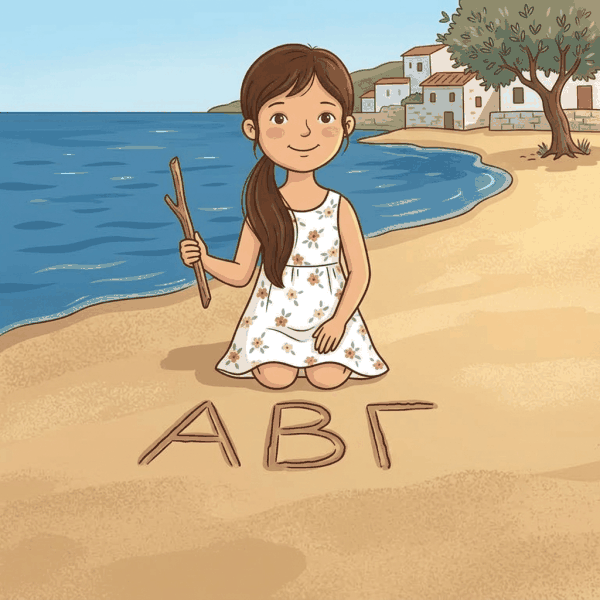
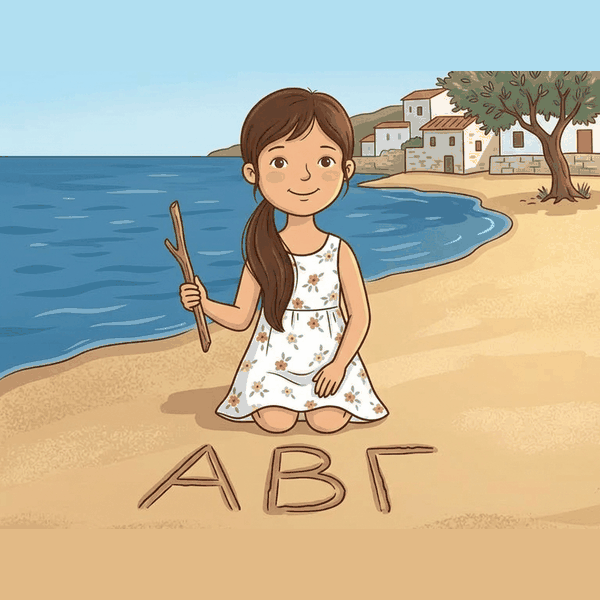
jtz

diff --git a/schreiben.js b/schreiben.js
@@ -237,6 +237,7 @@
 
   function anfangen(e) {
     e.preventDefault();
+    tonBereit();            // der Fingerdruck ist die Geste, die der Browser verlangt
     malt = true;
     letzter = ortVon(e);
     letzter[2] = imBuchstaben(letzter[0], letzter[1]);
@@ -329,19 +330,33 @@
   // auf den Balken schauen.
   var brummOsz = null, brummGain = null, brummLaeuft = false;
 
+  // Ein Browser lässt Ton erst zu, nachdem jemand etwas angefasst hat.
+  // Deshalb wird der Tonweg beim Aufsetzen des Fingers geöffnet, nicht
+  // erst, wenn er gebraucht wird.
+  function tonBereit() {
+    try {
+      var AC = window.AudioContext || window.webkitAudioContext;
+      if (!AC) return null;
+      if (!hall) hall = new AC();
+      if (hall.state === "suspended") hall.resume();
+      return hall;
+    } catch (e) { return null; }
+  }
+
   function brummen(an) {
     if (!tonAn) an = false;
     if (an === brummLaeuft) return;
     try {
-      var AC = window.AudioContext || window.webkitAudioContext;
-      if (!AC) return;
-      if (!hall) hall = new AC();
-      if (hall.state === "suspended") hall.resume();
+      if (!tonBereit()) return;
       if (!brummOsz) {
         brummOsz = hall.createOscillator();
         brummGain = hall.createGain();
-        brummOsz.type = "sine";
-        brummOsz.frequency.value = 196;      // tiefes G, unaufdringlich
+        // 196 Hz als reiner Sinus war auf Handy- und Notebooklautsprechern
+        // praktisch nicht zu hören: so tief geben kleine Lautsprecher kaum
+        // etwas her, und ein Sinus hat keine Obertöne, die durchkommen.
+        // Ein Dreieck bei 330 Hz trägt, ohne schrill zu sein.
+        brummOsz.type = "triangle";
+        brummOsz.frequency.value = 330;
         brummGain.gain.value = 0.0001;
         brummOsz.connect(brummGain);
         brummGain.connect(hall.destination);
@@ -350,7 +365,7 @@
       var t = hall.currentTime;
       brummGain.gain.cancelScheduledValues(t);
       brummGain.gain.setValueAtTime(Math.max(brummGain.gain.value, 0.0001), t);
-      brummGain.gain.exponentialRampToValueAtTime(an ? 0.045 : 0.0001, t + 0.05);
+      brummGain.gain.exponentialRampToValueAtTime(an ? 0.10 : 0.0001, t + 0.05);
       brummLaeuft = an;
     } catch (e) {}
   }

diff --git a/service-worker.js b/service-worker.js
@@ -1,6 +1,6 @@
 // Griechisch Lernen — Service Worker
 // Version hochzählen bei jedem Update auf GitHub!
-var CACHE_NAME = 'griechisch-lernen-v59';
+var CACHE_NAME = 'griechisch-lernen-v60';
 
 var STATIC_FILES = [
   '/griechisch-lernen/',
